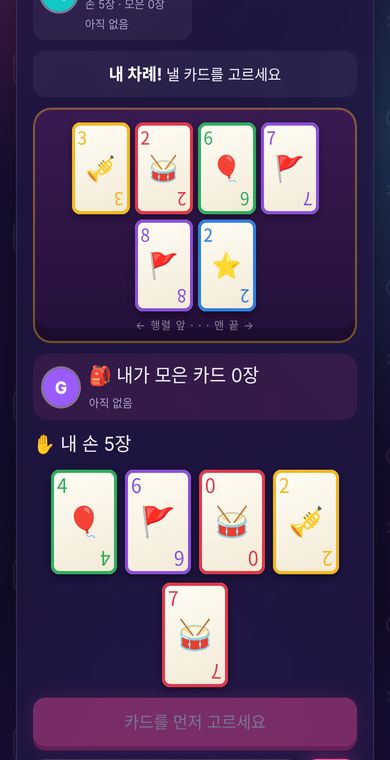
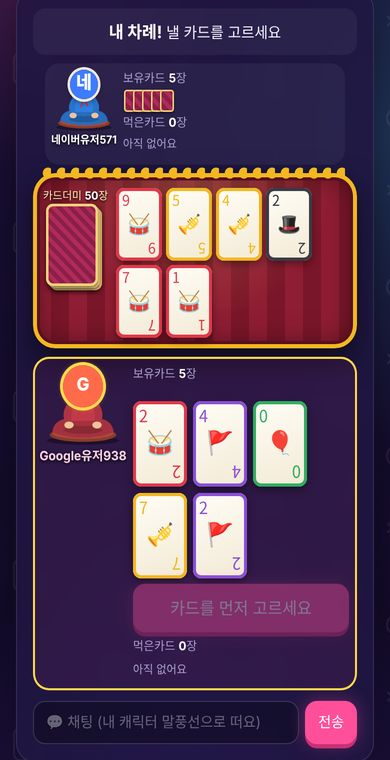
퍼레이드: 메인판(왼쪽 더미→행렬), 둘러앉은 캐릭터, 보유/먹은카드 정리
Claude-Session: https://claude.ai/code/session_018kcaK1YQGkv4UBC623yDa1

diff --git a/js/games/parade.js b/js/games/parade.js
@@ -3,7 +3,7 @@
 import { turnAlert, bigFlash } from './turn-alert.js';
 import { faceHtml } from './face.js';
 import { sfxCard } from '../sound.js';
-import { chatFormHtml, bindChat } from './sit.js';
+import { sitHtml, chatFormHtml, bindChat } from './sit.js';
 
 export const COLORS = {
   r: { name: '빨강 북', color: '#e0384a', icon: '🥁' },
@@ -174,61 +174,66 @@ export default {
     const L = state.log;
     const sc = state.phase === 'done' || finished ? scoreAll(state) : null;
 
-    const collHtml = (u, big) => {
+    // 먹은 카드: 색별로 겹쳐서 직접 보여줘요
+    const eatHtml = (u, size) => {
       const cs = state.coll[u];
-      if (!cs.length) return '<span class="pd-none">아직 없음</span>';
+      if (!cs.length) return '<span class="pd-none">아직 없어요</span>';
       return CK.filter((c) => cs.some((x) => col(x) === c)).map((c) => {
         const xs = cs.filter((x) => col(x) === c).sort((a, b) => val(a) - val(b));
-        return big
-          ? `<div class="pd-stack">${xs.map((x) => cardHtml(x, { small: true })).join('')}</div>`
-          : `<span class="pd-chip" style="--pc:${COLORS[c].color}">${COLORS[c].icon}<b>${xs.length}</b><small>${xs.reduce((s, x) => s + val(x), 0)}</small></span>`;
+        return `<div class="pd-stack ${size}">${xs.map((x) => cardHtml(x, { small: true })).join('')}</div>`;
       }).join('');
     };
+    const backs = (n) => Array.from({ length: n }, () => '<i class="pd-back"></i>').join('');
+    const ROBES = ['#c23a4a', '#2f7fe0', '#2fae5f', '#8a4fd8', '#d98a1c', '#3a3a46'];
+    const robe = (u) => ROBES[state.order.indexOf(u) % ROBES.length];
     const others = state.order.filter((u) => u !== me);
-    const seats = others.map((u) => `<div class="pd-op ${u === turnUid && !finished && state.phase !== 'pick' ? 'turn' : ''}">
-        <span class="seat-bubble" data-bub="${esc(u)}"></span>
-        <span class="pd-face">${faceHtml(players[u] || { name: '?' })}</span>
-        <div class="pd-opi"><b>${name(u)}</b><small>손 ${state.hands[u].length}장 · 모은 ${state.coll[u].length}장${state.phase === 'pick' ? (state.picks[u] ? ' · ✓ 골랐어요' : ' · 고르는 중…') : ''}</small>
-          <div class="pd-chips">${collHtml(u, false)}</div></div>
-      </div>`).join('');
+    const opHtml = (u) => `<div class="pd-op2 ${u === turnUid && !finished && state.phase !== 'pick' && state.phase !== 'done' ? 'turn' : ''}">
+        ${sitHtml(players[u], { uid: u, robe: robe(u), turn: u === turnUid && !finished && ['play', 'last'].includes(state.phase),
+          label: state.phase === 'pick' ? (state.picks[u] ? '✓ 골랐어요' : '고르는 중…') : '' })}
+        <div class="pd-lab">보유카드 <b>${state.hands[u].length}</b>장</div>
+        <div class="pd-backs">${backs(state.hands[u].length)}</div>
+        <div class="pd-lab">먹은카드 <b>${state.coll[u].length}</b>장${sc ? ` · <em>${sc[u].pts}점</em>` : ''}</div>
+        <div class="pd-eat">${eatHtml(u, 'xs')}</div>
+      </div>`;
 
     let banner;
     if (finished || state.phase === 'done') banner = '🎪 퍼레이드 끝! 결과를 확인하세요';
-    else if (state.phase === 'pick') banner = state.picks[me] ? '고르기 완료! 다른 사람을 기다리는 중…' : `<b>손에 남은 카드 중 2장</b>을 골라 내 카드에 더해요 <small class="muted">(나머지 2장은 버려요)</small>`;
+    else if (state.phase === 'pick') banner = state.picks[me] ? '고르기 완료! 다른 사람을 기다리는 중…' : `<b>손에 남은 카드 중 2장</b>을 골라 먹은 카드에 더해요 <small class="muted">(나머지 2장은 버려요)</small>`;
     else if (myTurn) banner = ui.sel ? `<b>${COLORS[col(ui.sel)].name} ${val(ui.sel)}</b> → <b class="red">${preview.size}장</b>을 가져가요` : `<b>내 차례!</b> 낼 카드를 고르세요${state.phase === 'last' ? ' <small class="muted">· 마지막 행진 (뽑지 않아요)</small>' : ''}`;
     else banner = `<b>${name(turnUid)}</b>님 차례${state.phase === 'last' ? ' · 마지막 행진' : ''}`;
 
     el.innerHTML = `
-      <div class="pd">
-        <div class="pd-head"><span>🃏 더미 <b>${state.deck.length}</b>장</span>${state.phase === 'last' ? `<span class="pd-last">🎪 마지막 행진 · 남은 차례 ${state.lastLeft}</span>` : ''}<span>🎪 행렬 <b>${state.parade.length}</b>장</span></div>
-        <div class="pd-ops">${seats}</div>
+      <div class="pd pd2">
         <div class="nb-banner"><span>${banner}</span></div>
-        <div class="pd-road">
-          <div class="pd-line">${state.parade.map((x, i) => {
-            const cls = preview ? (preview.has(i) ? 'take' : i >= safeFrom ? 'safe' : 'stay') : (L && i === state.parade.length - 1 && !finished ? 'new' : '');
-            return `<div class="pd-slot ${cls}">${cardHtml(x)}</div>`;
-          }).join('')}${ui.sel ? `<div class="pd-slot ghost">${cardHtml(ui.sel)}</div>` : ''}</div>
-          <div class="pd-flow">← 행렬 앞 · · · 맨 끝 →</div>
-        </div>
-        ${L && !ui.sel ? `<div class="pd-log"><b>${name(L.uid)}</b>님이 ${cardHtml(L.card, { small: true })} 를 내고 ${L.taken.length ? `<span class="pd-took">${L.taken.map((x) => cardHtml(x, { small: true })).join('')}</span> ${L.taken.length}장을 가져갔어요` : '하나도 가져가지 않았어요 👏'}</div>` : ''}
-        ${isPlayer ? `
-          <div class="pd-mine">
-            <span class="seat-bubble" data-bub="${esc(me)}"></span>
-            <span class="pd-face me">${faceHtml(players[me] || { name: '?' })}</span>
-            <div class="ud-mine-title">🎒 내가 모은 카드 ${state.coll[me].length}장 ${sc ? `· <b>${sc[me].pts}점</b>` : ''}</div>
-            <div class="pd-mycoll">${collHtml(me, true)}</div>
+        <div class="pd-ops2 n${others.length}">${others.map(opHtml).join('')}</div>
+        <div class="pd-board">
+          ${state.phase === 'last' ? `<div class="pd-lastbar">🎪 마지막 행진 · 남은 차례 ${state.lastLeft}</div>` : ''}
+          <div class="pd-track">
+            <div class="pd-deck"><span>카드더미 <b>${state.deck.length}</b>장</span><div class="pd-pile ${state.deck.length ? '' : 'empty'}">${state.deck.length ? '<i class="pd-back big"></i><i class="pd-back big"></i><i class="pd-back big"></i>' : '없음'}</div></div>
+            <div class="pd-line">${state.parade.map((x, i) => {
+              const cls = preview ? (preview.has(i) ? 'take' : i >= safeFrom ? 'safe' : 'stay') : (L && i === state.parade.length - 1 && !finished ? 'new' : '');
+              return `<div class="pd-slot ${cls}">${cardHtml(x)}</div>`;
+            }).join('')}${ui.sel ? `<div class="pd-slot ghost">${cardHtml(ui.sel)}</div>` : ''}</div>
           </div>
-          ${myHand.length && state.phase !== 'done' && !finished ? `
-            <div class="ud-mine-title">✋ 내 손 ${myHand.length}장</div>
-            <div class="pd-hand">${myHand.map((x) => {
-              const on = state.phase === 'pick' ? ui.picks.includes(x) || (state.picks[me] || []).includes(x) : ui.sel === x;
-              return `<button class="pd-cardbtn ${on ? 'on' : ''}" data-card="${x}" ${(!myTurn && state.phase !== 'pick') || state.picks[me] ? 'disabled' : ''}>${cardHtml(x)}</button>`;
-            }).join('')}</div>
-            ${myTurn ? `<button class="btn primary block" data-play ${ui.sel ? '' : 'disabled'}>${ui.sel ? `🎪 행렬에 내기 (${preview.size}장 가져감)` : '카드를 먼저 고르세요'}</button>` : ''}
-            ${state.phase === 'pick' && !state.picks[me] ? `<button class="btn primary block" data-pick ${ui.picks.length === 2 ? '' : 'disabled'}>${ui.picks.length === 2 ? '이 2장으로 확정' : `2장을 골라 주세요 (${ui.picks.length}/2)`}</button>` : ''}
-          ` : ''}
-          ${chatFormHtml()}` : ''}
+          ${L && !ui.sel ? `<div class="pd-log"><b>${name(L.uid)}</b>님 ${cardHtml(L.card, { small: true })} → ${L.taken.length ? `<span class="pd-took">${L.taken.map((x) => cardHtml(x, { small: true })).join('')}</span> ${L.taken.length}장 먹음` : '하나도 안 먹었어요 👏'}</div>` : ''}
+        </div>
+        ${isPlayer ? `
+          <div class="pd-me ${myTurn ? 'turn' : ''}">
+            ${sitHtml(players[me], { uid: me, robe: robe(me), me: true, turn: myTurn })}
+            <div class="pd-mebox">
+              <div class="pd-lab">보유카드 <b>${myHand.length}</b>장</div>
+              ${myHand.length && state.phase !== 'done' && !finished ? `<div class="pd-hand">${myHand.map((x) => {
+                const on = state.phase === 'pick' ? ui.picks.includes(x) || (state.picks[me] || []).includes(x) : ui.sel === x;
+                return `<button class="pd-cardbtn ${on ? 'on' : ''}" data-card="${x}" ${(!myTurn && state.phase !== 'pick') || state.picks[me] ? 'disabled' : ''}>${cardHtml(x)}</button>`;
+              }).join('')}</div>` : '<span class="pd-none">없어요</span>'}
+              ${myTurn ? `<button class="btn primary block" data-play ${ui.sel ? '' : 'disabled'}>${ui.sel ? `🎪 행렬에 내기 (${preview.size}장 먹음)` : '카드를 먼저 고르세요'}</button>` : ''}
+              ${state.phase === 'pick' && !state.picks[me] && !finished ? `<button class="btn primary block" data-pick ${ui.picks.length === 2 ? '' : 'disabled'}>${ui.picks.length === 2 ? '이 2장으로 확정' : `2장을 골라 주세요 (${ui.picks.length}/2)`}</button>` : ''}
+              <div class="pd-lab">먹은카드 <b>${state.coll[me].length}</b>장${sc ? ` · <em>${sc[me].pts}점</em>` : ''}</div>
+              <div class="pd-eat">${eatHtml(me, 'sm')}</div>
+            </div>
+          </div>` : ''}
         ${sc ? `<div class="pd-score">${state.order.map((u) => `<div><b>${name(u)}</b> ${sc[u].pts}점 <small>(${sc[u].cards}장${sc[u].major.length ? ` · 다수 ${sc[u].major.map((c) => COLORS[c].icon).join('')}` : ''})</small></div>`).join('')}</div>` : ''}
+        ${isPlayer ? chatFormHtml() : ''}
       </div>`;
 
     el.querySelectorAll('[data-card]').forEach((b) => (b.onclick = () => {

diff --git a/css/style.css b/css/style.css
@@ -3171,3 +3171,48 @@ html.rk-on .vdock .vbtn { height: 34px; font-size: 13px; padding: 0 10px; }
 .pd-score small { color: var(--muted); }
 .pd-flash { display: grid; gap: 4px; justify-items: center; padding: 12px 20px; border-radius: 16px; background: rgba(20, 8, 40, .9); box-shadow: 0 0 0 2px #f2b821; font-size: 26px; font-weight: 900; color: #ffd84d; }
 .pd-flash small { font-size: 13px; color: #fff; font-weight: 600; }
+/* 퍼레이드 v2: 메인판 + 둘러앉은 캐릭터 */
+.pd2 { gap: 8px; }
+.pd-ops2 { display: grid; grid-template-columns: repeat(auto-fit, minmax(150px, 1fr)); gap: 6px; }
+.pd-ops2.n1 { grid-template-columns: minmax(0, 260px); justify-content: center; }
+.pd-op2 { position: relative; display: grid; justify-items: center; gap: 3px; padding: 6px 6px 8px; border-radius: 14px; background: rgba(255, 255, 255, .05); min-width: 0; }
+.pd-op2.turn { box-shadow: inset 0 0 0 2px #ffd84d, 0 0 12px rgba(255, 216, 77, .3); }
+.pd-op2 .sit { width: 80px; } .pd-op2 .sit-fig { width: 70px; height: 66px; } .pd-op2 .sit-face { width: 32px; height: 32px; }
+.pd-lab { font-size: 11.5px; color: var(--muted); justify-self: start; }
+.pd-lab b { color: #fff; } .pd-lab em { font-style: normal; color: #ffd84d; font-weight: 800; }
+.pd-backs { display: flex; justify-self: start; padding-left: 6px; }
+.pd-back { display: block; width: 18px; aspect-ratio: 2 / 3; border-radius: 3px; margin-left: -6px; background: repeating-linear-gradient(45deg, #b02a5a 0 4px, #8a1f48 4px 8px); box-shadow: inset 0 0 0 1.5px #f2d27a, 0 1px 2px rgba(0, 0, 0, .5); }
+.pd-eat { display: flex; flex-wrap: wrap; gap: 4px 6px; justify-self: stretch; min-height: 20px; }
+.pd-stack { display: flex; padding-left: 0; }
+.pd-stack.xs .pdc.sm { width: 22px; } .pd-stack.xs .pdc.sm .pdc-ic { font-size: 9px; } .pd-stack.xs .pdc.sm .pdc-n { font-size: 8.5px; }
+.pd-stack.xs .pdc.sm + .pdc.sm { margin-left: -9px; }
+.pd-stack.sm .pdc.sm + .pdc.sm { margin-left: -12px; }
+/* 메인판 */
+.pd-board { position: relative; display: grid; gap: 8px; padding: 14px 10px 10px; border-radius: 22px;
+  background: radial-gradient(ellipse at 50% 0%, rgba(255, 210, 120, .25), transparent 60%), repeating-linear-gradient(90deg, #8f1d33 0 18px, #7a1629 18px 36px);
+  box-shadow: inset 0 0 0 4px #f2b821, inset 0 0 0 7px #5a0f20, inset 0 0 30px rgba(0, 0, 0, .5), 0 12px 28px rgba(0, 0, 0, .5); }
+.pd-board::before { content: ''; position: absolute; left: 8px; right: 8px; top: -8px; height: 16px; background: repeating-linear-gradient(90deg, #f2b821 0 10px, transparent 10px 14px); -webkit-mask: radial-gradient(circle at 7px 8px, #000 5px, transparent 5.5px) 0 0 / 14px 16px; mask: radial-gradient(circle at 7px 8px, #000 5px, transparent 5.5px) 0 0 / 14px 16px; }
+.pd-lastbar { justify-self: center; padding: 3px 12px; border-radius: 99px; background: rgba(0, 0, 0, .45); color: #ffd84d; font-size: 12.5px; font-weight: 800; }
+.pd-track { display: grid; grid-template-columns: auto 1fr; gap: 8px; align-items: start; }
+.pd-deck { display: grid; justify-items: center; gap: 4px; }
+.pd-deck > span { font-size: 10.5px; color: #ffe9b0; white-space: nowrap; text-shadow: 0 1px 2px #000; } .pd-deck b { color: #fff; }
+.pd-pile { position: relative; width: 52px; aspect-ratio: 2 / 3; }
+.pd-pile .pd-back.big { position: absolute; inset: 0; width: 100%; margin: 0; border-radius: 7px; box-shadow: inset 0 0 0 2.5px #f2d27a, 0 2px 4px rgba(0, 0, 0, .5); }
+.pd-pile .pd-back.big:nth-child(2) { transform: translate(-2px, -2px); } .pd-pile .pd-back.big:nth-child(3) { transform: translate(-4px, -4px); }
+.pd-pile.empty { display: grid; place-items: center; border-radius: 7px; border: 2px dashed rgba(255, 255, 255, .35); font-size: 11px; color: rgba(255, 255, 255, .5); }
+.pd2 .pd-line { justify-content: flex-start; gap: 4px; }
+.pd2 .pd-line .pdc { width: 46px; } .pd2 .pd-line .pdc-ic { font-size: 19px; } .pd2 .pd-line .pdc-n { font-size: 14px; }
+.pd2 .pd-log { padding: 5px 8px; border-radius: 10px; background: rgba(0, 0, 0, .35); color: #fff; }
+/* 내 자리 */
+.pd-me { position: relative; display: grid; grid-template-columns: 84px 1fr; gap: 8px; padding: 8px; border-radius: 16px; background: rgba(255, 79, 154, .08); }
+.pd-me.turn { box-shadow: inset 0 0 0 2px #ffd84d; }
+.pd-me .sit { width: 84px; align-self: start; } .pd-me .sit-fig { width: 80px; height: 76px; }
+.pd-mebox { display: grid; gap: 5px; min-width: 0; }
+.pd2 .pd-hand { justify-content: flex-start; gap: 6px; }
+.pd2 .pd-cardbtn .pdc { width: 54px; } .pd2 .pd-cardbtn .pdc-ic { font-size: 22px; } .pd2 .pd-cardbtn .pdc-n { font-size: 16px; }
+.pd2 .pd-hand { padding-top: 12px; }
+.pd-op2 { grid-template-columns: 66px minmax(0, 1fr); justify-items: start; align-items: start; column-gap: 6px; row-gap: 2px; }
+.pd-op2 > .sit { grid-row: span 4; width: 66px; } .pd-op2 .sit-fig { width: 62px; height: 58px; } .pd-op2 .sit-face { width: 28px; height: 28px; }
+.pd-op2 .sit-name { max-width: 66px; font-size: 10.5px; }
+.pd-op2 .pd-backs { padding-left: 6px; } .pd-op2 .pd-back { width: 14px; margin-left: -5px; }
+.pd-ops2.n1 { grid-template-columns: minmax(0, 300px); }

diff --git a/js/config.js b/js/config.js
@@ -1,6 +1,6 @@
 // 앱 이름
 export const APP_NAME = 'O게임';
-export const APP_VERSION = 'v10.47';
+export const APP_VERSION = 'v10.48';
 
 // Firebase 설정 — Firebase 콘솔 > 프로젝트 설정 > 내 앱 에서 복사한 값
 // apiKey를 비우면 "테스트 모드"로 동작합니다
